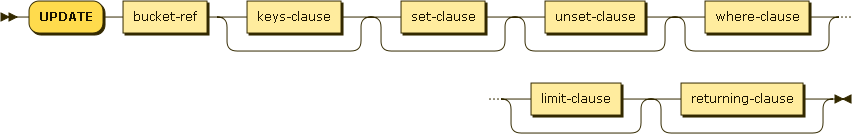
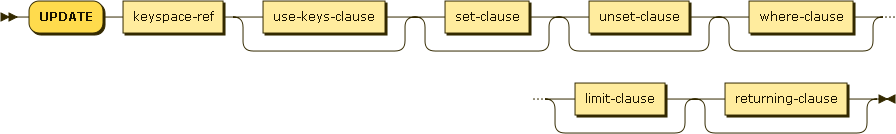
Rename BUCKET to KEYSPACE in syntax diagrams.

diff --git a/docs/n1ql-dml.md b/docs/n1ql-dml.md
@@ -30,13 +30,13 @@ N1QL provides several data modification statements.
 
 ![](diagram/insert.png)
 
-*bucket-ref:*
+*keyspace-ref:*
 
-![](diagram/bucket-ref.png)
+![](diagram/keyspace-ref.png)
 
-*bucket-name:*
+*keyspace:*
 
-![](diagram/bucket-name.png)
+![](diagram/keyspace.png)
 
 *key-clause:*
 
@@ -126,7 +126,7 @@ N1QL provides several data modification statements.
 
 ## TRUNCATE
 
-TRUNCATE deletes all the documents in a bucket. It cannot be rolled
+TRUNCATE deletes all the documents in a keyspace. It cannot be rolled
 back, and it cannot be called within or participate in transactions.
 
 *truncate:*
@@ -135,11 +135,11 @@ back, and it cannot be called within or participate in transactions.
 
 **NOTE:** Because we are distributed and support XDCR, TRUNCATE would
 need to work correctly and efficiently across partitions and across
-data centers, even as data flows into the bucket.
+data centers, even as data flows into the keyspace.
 
-One possibility is to first broadcast a BUCKET CLEAR message that
-causes the bucket to stop accepting new mutations and to be empty for
-new queries. Once the BUCKET CLEAR is coordinated, the final TRUNCATE
+One possibility is to first broadcast a KEYSPACE CLEAR message that
+causes the keyspace to stop accepting new mutations and to be empty for
+new queries. Once the KEYSPACE CLEAR is coordinated, the final TRUNCATE
 can be completed (while completing already-started queries).
 
 We may postpone TRUNCATE if the implementation makes it expedient to
@@ -268,6 +268,7 @@ Generator](http://railroad.my28msec.com/) ![](diagram/.png)
 * 2014-10-11 - Syntax
     * Simplify MERGE
     * Change KEYS to USE [ PRIMARY ] KEYS
+    * Rename BUCKET to KEYSPACE
 
 ### Open Issues
 
